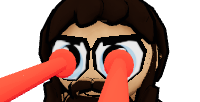
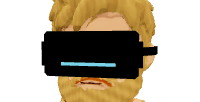
v153: v5 SHOP PREVIEWS (Timothy): v5 shop previews: every pre-baked card PNG (assets/pirates/thumbs, 30 player items re-baked + 13 new: crew hats/clothes incl. HQ HELMET, face paint) rendered on the v5 pirate via the gearThumbs.js renderer; Crew Shop cards show a crew member in the uniform (wear), o

diff --git a/js/gearThumbs.js b/js/gearThumbs.js
@@ -35,7 +35,7 @@ const FRAME = {   // measured from the skinned item bounds in the idle pose (big
 function frameOf(slot, o, id) { const F = FRAME[slot + ':' + id] || FRAME[slot] || FRAME.outfit, side = slot === 'hook' ? o.hookSide : slot === 'leg' ? o.legSide : 'R';
   return side === 'L' ? { c: [-F.c[0], F.c[1], F.c[2]], d: [-F.d[0], F.d[1], F.d[2]], r: F.r } : F; }
 const lookOf = (slot, o) => slot === 'map' ? '' : [slot === 'outfit' ? (o.skin || 'classic') : '', slot === 'hat' ? (o.hatColor | 0) : '', slot === 'hook' ? (o.hookSide === 'L' ? 'L' : 'R') : '',
-  slot === 'leg' ? (o.legSide === 'L' ? 'L' : 'R') : '', o.skinColor | 0, o.hairColor | 0, o.body | 0, o.eyeColor | 0].join('|');
+  slot === 'leg' ? (o.legSide === 'L' ? 'L' : 'R') : '', o.skinColor | 0, o.hairColor | 0, o.body | 0, o.eyeColor | 0, o.wear ? JSON.stringify(o.wear) + (o.skin || '') : ''].join('|');   // [Timothy] wear = other items worn under it (the Crew Shop's uniform)
 const keyOf = (slot, id, o) => `${slot}:${id}|${lookOf(slot, o)}|${o.w || TW}x${o.h || TH}|${o.lod || ''}`;
 const TW = 200, TH = 102;   // the shop card swatch is 150 x 76 (css .ishop-sw), drawn at ~1.33x
 const cache = new Map();   // key -> dataURL
@@ -81,7 +81,7 @@ function mapScroll() {
 
 const dressKey = (slot, id, o) => `${slot}:${id}|${lookOf(slot, o)}`;
 async function dressFor(slot, id, o) {
-  await applyGear(fig, normalizeGear({ [slot]: id, hatColor: o.hatColor | 0, hookSide: o.hookSide, legSide: o.legSide, skinColor: o.skinColor | 0, hairColor: o.hairColor | 0, body: o.body | 0, eyeColor: o.eyeColor | 0 }), slot === 'outfit' ? { skin: o.skin || 'classic' } : null);
+  await applyGear(fig, normalizeGear({ ...(o.wear || {}), [slot]: id, hatColor: o.hatColor | 0, hookSide: o.hookSide, legSide: o.legSide, skinColor: o.skinColor | 0, hairColor: o.hairColor | 0, body: o.body | 0, eyeColor: o.eyeColor | 0 }), slot === 'outfit' || o.wear?.outfit ? { skin: o.skin || 'classic' } : null);
   fig.userData.thumbKey = dressKey(slot, id, o);
 }
 async function renderOne(slot, id, o) {
@@ -112,15 +112,16 @@ function pump() {
   requestAnimationFrame(step);
 }
 export function gearThumb(slot, id, opts = {}) {
-  const k = keyOf(slot, id, opts); if (cache.has(k)) return cache.get(k);
-  const pr = new Promise((res) => { queue.push({ slot, id, o: opts, res }); pump(); }).then((u) => { if (!u) cache.delete(k); return u; });
+  const k = keyOf(slot, id, opts);
+  if (cache.has(k)) { if (opts.priority) { const i = queue.findIndex((j) => j.k === k); if (i > 0) queue.unshift(...queue.splice(i, 1)); } return cache.get(k); }   // [Timothy] the detail pane jumps the card queue
+  const pr = new Promise((res) => { const job = { k, slot, id, o: opts, res }; if (opts.priority) queue.unshift(job); else queue.push(job); pump(); }).then((u) => { if (!u) cache.delete(k); return u; });
   cache.set(k, pr); return pr;
 }
 export const gearThumbCached = (slot, id, opts = {}) => { const v = cache.get(keyOf(slot, id, opts)); return v && typeof v.then !== 'function' ? v : null; };
 export function gearThumbEl(slot, id, opts = {}) {
   const img = new Image(); img.className = 'gear-thumb'; img.alt = ''; img.decoding = 'async'; img.draggable = false;
   const rid = raulItemOf(slot, id, opts), icon = rid && new URL(`../assets/pirates/items/icons/${rid}.png`, import.meta.url).href;   // Raul's 256 px icon (the chosen side)
-  img.src = PNG(slot, id); img.onerror = () => { if (icon && img.src !== icon) { img.src = icon; return; } img.onerror = null; img.style.visibility = 'hidden'; };
+  img.src = opts.png ? new URL(`../assets/pirates/thumbs/${opts.png}.png`, import.meta.url).href : PNG(slot, id); img.onerror = () => { if (icon && img.src !== icon) { img.src = icon; return; } img.onerror = null; img.style.visibility = 'hidden'; };
   gearThumb(slot, id, opts).then((u) => { if (u) { img.onerror = null; img.style.visibility = ''; img.src = u; img.classList.add('real'); } });
   return img;
 }
@@ -131,7 +132,12 @@ export function gearLive(el, slot, id, opts = {}) {
   cv.width = w; cv.height = h; cv.className = cv.className || 'gear-live'; const ctx = cv.getContext('2d');
   let on = true, last = 0, a = 0, ready = false, redress = false; const me = { stop }, dk = dressKey(slot, id, opts);
   LIVE.add(me);
-  (async () => { await gearThumb(slot, id, opts); ready = true; })();   // dresses + caches the still first
+  // [Timothy] the pane is never empty: the pre-baked PNG at once, then this item's real still (rendered FIRST, ahead of the cards),
+  // then the slow turn once the card queue has drained (the shared figure is re-dressed for the cards until then)
+  let turned = false; const still = new Image(); still.decoding = 'async';
+  still.onload = () => { if (on && !turned) { ctx.clearRect(0, 0, w, h); ctx.drawImage(still, 0, 0, w, h); } };
+  if (slot !== 'map') still.src = opts.png ? new URL(`../assets/pirates/thumbs/${opts.png}.png`, import.meta.url).href : PNG(slot, id);
+  (async () => { const u = await gearThumb(slot, id, { ...opts, priority: true }); if (u && on && !turned) still.src = u; ready = true; })();   // dresses + caches the still first
   function frame(t) {
     if (!on) return; if (!cv.isConnected && t > 2000 && last) return stop();
     requestAnimationFrame(frame); if (!ready || t - last < 1000 / (LOW ? 20 : 30) || !R || cv.offsetParent === null || document.hidden) return; last = t;
@@ -143,7 +149,7 @@ export function gearLive(el, slot, id, opts = {}) {
       cam.position.set(F.c[0], F.c[1], F.c[2]).addScaledVector(d, dist); cam.lookAt(F.c[0], F.c[1], F.c[2]);
     }
     cam.aspect = w / h; cam.updateProjectionMatrix(); if (R.domElement.width !== w || R.domElement.height !== h) R.setSize(w, h, false);
-    R.render(scene, cam); ctx.clearRect(0, 0, w, h); ctx.drawImage(R.domElement, 0, 0); fig.rotation.y = 0; idleT = performance.now();
+    R.render(scene, cam); ctx.clearRect(0, 0, w, h); ctx.drawImage(R.domElement, 0, 0); fig.rotation.y = 0; idleT = performance.now(); turned = true;
   }
   requestAnimationFrame(frame);
   function stop() { on = false; LIVE.delete(me); }

diff --git a/js/pirateItems.js b/js/pirateItems.js
@@ -442,7 +442,7 @@ async function buildV5(p, def, opts, low, body, skel, names) {
   if (def.keyed) keyColors(geo, opts.colors, low); else if (opts.colors && !def.base) retint(geo, opts.colors);
   if (def.paint && p.lod === 'lo') paintLo(geo);
   const bt = def.backTint || 'shirt', hex = def.v5cloth ? opts.colors?.[bt] ?? def.tint?.[bt] : null;   // [Raul coats v5] coats: the inside in the coat colour   // [Raul clothes v5] single-layer cloth: both sides drawn, the inside in the cloth colour (shaded)
-  const m = new THREE.SkinnedMesh(geo, def.v5cloth && !def.base ? clothMat(itemMaterial(mat || {}, low, true), hex, low, def.cream) : def.keyed && def.cream ? clothMat(itemMaterial(mat || {}, low, true), opts.colors?.[1] || '#c8302c', low, def.cream) : itemMaterial(mat || {}, low, def.slot !== 'outfit' || !!def.v5cloth)); m.name = 'item_' + def.id; m.frustumCulled = false;
+  const m = new THREE.SkinnedMesh(geo, def.v5cloth && !def.base ? clothMat(itemMaterial(mat || {}, low, true), hex, low, def.cream) : def.keyed && def.cream ? clothMat(itemMaterial(mat || {}, low, true), opts.colors?.[1] || '#c8302c', low, def.cream) : itemMaterial(mat || {}, low, (def.slot !== 'outfit' || !!def.v5cloth) && !/^(hook|peg)_/.test(def.id))); m.name = 'item_' + def.id; m.frustumCulled = false;   // [Timothy] hooks + pegs single-sided: their black ink outline shell drew over the whole item when double-sided (black hook / peg)
   if (def.paint) { m.material = m.material.clone(); Object.assign(m.material, { polygonOffset: true, polygonOffsetFactor: -1, polygonOffsetUnits: -4 }); }   // [v145] the paint wins over the skin under it (phone bodies poked through the 4 mm shell)
   body.parent.add(m); m.bind(skel, body.bindMatrix);
   if (dy) { const P = geo.attributes.position; for (let i = 0; i < P.count; i++) P.setY(i, P.getY(i) + dy); P.needsUpdate = true; geo.computeBoundingSphere(); }

diff --git a/js/islandShop.js b/js/islandShop.js
@@ -98,7 +98,8 @@ function svgThumb(it) { // the painted fallback (only shown until the real rende
 // The pre-baked PNG shows while it renders; the painted SVG only if both fail. The detail pane turns it slowly (live preview).
 const thumbOpts = () => { const g = getLocalGear(); return { skin: state?.equipped?.skin || 'classic', hatColor: (state?.equipped?.gear?.hatColor ?? g.hatColor) | 0, hookSide: g.hookSide, legSide: g.legSide, skinColor: g.skinColor | 0, hairColor: g.hairColor | 0, body: g.body | 0, eyeColor: g.eyeColor | 0 }; };
 // [Timothy] CREW SHOP items draw with the player item of the same id (it.base) on a CREW MEMBER (CREW_LOOK), hat in its own colour
-const optsFor = (it) => it.crew ? { ...thumbOpts(), ...CREW_LOOK, hatColor: 0, eyeColor: 0 } : thumbOpts();
+// a crew HAT is shown over the uniform tank, crew CLOTHES under the uniform bandana (a crew member in the default uniform)
+const optsFor = (it) => it.crew ? { ...thumbOpts(), ...CREW_LOOK, hatColor: 0, eyeColor: 0, wear: it.slot === 'crewhat' ? { outfit: CREW_DEFAULT.crewoutfit } : { hat: CREW_DEFAULT.crewhat }, png: `${it.slot}_${it.id}` } : thumbOpts();
 function gearThumb(it, live = false) {
   const base = it.base ? { ...it, slot: it.base } : it, sl = base.slot;
   const d = svgThumb(base); d.classList.add('real3d'); if (it.crew) d.classList.add('crew'); const svg = d.firstElementChild;

diff --git a/sw.js b/sw.js
@@ -1,6 +1,6 @@
 // PUMPFUN PIRATES service worker: caches the app shell + pinned three.js CDN modules for offline play.
 // Bump VERSION whenever you change any file so phones pick up the update.
-const VERSION = 'pfp-v152'; // [v152] harbor join / respawn spawns you moored at a free berth (B1-B10), all taken = at sea as before
+const VERSION = 'pfp-v153'; // [v153] v5 shop previews: every pre-baked card PNG re-rendered on the v5 pirate (+13 new crew / face paint cards), PET STORE pane never empty, hooks + peg legs single-sided (no black blobs)
 const SHELL = [
   "./",
   "./index.html",

diff --git a/tools/thumbs_v5.py b/tools/thumbs_v5.py
@@ -1,0 +1,40 @@
+# Re-bake the pre-baked shop card PNGs (assets/pirates/thumbs/<slot>_<id>.png, shown at once while the live render runs) on the v5
+# pirate (the same gearThumbs.js renderer the shop uses), and check every still: drawn, and nothing cut at the top (hats / crowns),
+# on desktop (hi) and phone (lo), player items + Crew Shop items (crew member in the uniform). python3 tools/thumbs_v5.py <port> [--bake]
+import asyncio, base64, sys, json
+from playwright.async_api import async_playwright
+ARGS=['--use-gl=angle','--use-angle=swiftshader','--enable-unsafe-swiftshader','--ignore-gpu-blocklist']
+B='http://127.0.0.1:'+sys.argv[1]; BAKE='--bake' in sys.argv; DST='/workspace/timothy-crewpets/assets/pirates/thumbs'
+UA='Mozilla/5.0 (iPhone; CPU iPhone OS 17_0 like Mac OS X) AppleWebKit/605.1.15 (KHTML, like Gecko) Version/17.0 Mobile/15E148 Safari/604.1'
+JS="""async(crewOnly)=>{ const T=await import('/js/gearThumbs.js'), C=await import('/js/shopCatalog.js'), L=await import('/js/crewLoadout.js');
+  const img=(u)=>new Promise(r=>{ const i=new Image(); i.onload=()=>r(i); i.onerror=()=>r(null); i.src=u; });
+  const chk=async(u)=>{ const i=await img(u); if(!i) return { ok:false }; const c=document.createElement('canvas'); c.width=i.width; c.height=i.height; const g=c.getContext('2d'); g.drawImage(i,0,0);
+    const d=g.getImageData(0,0,c.width,c.height).data; let n=0, top=0; for(let y=0;y<c.height;y++) for(let x=0;x<c.width;x++){ const a=d[(y*c.width+x)*4+3]; if(a>20){ n++; if(y<2) top++; } } return { ok:true, px:n, top }; };
+  const out={}, res=[];
+  for (const it of C.GEAR_ITEMS) { const u=await T.gearThumb(it.slot,it.id,{}); out[it.slot+'_'+it.id]=u; res.push({ k:it.slot+':'+it.id, ...(await chk(u)) }); }
+  for (const it of C.CREW_ITEMS) { const o={ ...L.CREW_LOOK, wear: it.slot==='crewhat' ? { outfit:'tank' } : { hat:'bandana' } }; const u=await T.gearThumb(it.base,it.id,o); out['crew_'+it.slot+'_'+it.id]=u; res.push({ k:it.slot+':'+it.id, ...(await chk(u)) }); }
+  return { out, res }; }"""
+async def run(b,name,phone):
+    kw=dict(viewport={'width':1280,'height':800} if not phone else {'width':390,'height':844},service_workers='block')
+    if phone: kw.update(is_mobile=True,has_touch=True,user_agent=UA)
+    ctx=await b.new_context(**kw); await ctx.route('**/*supabase.co/**',lambda r:r.abort()); pg=await ctx.new_page(); errs=[]
+    pg.on('pageerror',lambda e: errs.append(str(e)))
+    await pg.goto(B+'/index.html?quality='+('low' if phone else 'high'),wait_until='domcontentloaded',timeout=180000)
+    await pg.wait_for_function('window.PFP && PFP.renderer',timeout=300000)
+    r=await pg.evaluate(JS, False); await ctx.close(); return r, errs
+async def main():
+    R=[]; ok=lambda n,c,i='': (R.append((n,bool(c),i)), print(('PASS ' if c else 'FAIL ')+n, str(i)[:300], flush=True))
+    async with async_playwright() as p:
+        b=await p.chromium.launch(executable_path='/usr/bin/google-chrome',headless=True,args=ARGS)
+        for name,phone in [('desktop',False),('phone',True)]:
+            r,errs=await run(b,name,phone)
+            bad=[x for x in r['res'] if not x.get('ok') or x['px']<800]; cut=[x for x in r['res'] if x.get('top',0)>3 and (x['k'].startswith('hat:') or x['k'].startswith('crewhat:'))]
+            ok(f'{name} every thumbnail drawn ({len(r["res"])} player + crew items)', not bad, bad); ok(f'{name} no hat / crown cut at the top', not cut, cut); ok(f'{name} no page errors', not errs, errs[:3])
+            if BAKE and not phone:
+                for k,u in r['out'].items():
+                    if u and not k.startswith('crew_'): open(f'{DST}/{k}.png','wb').write(base64.b64decode(u.split(',',1)[1]))
+                    if u and k.startswith('crew_'): open(f'{DST}/{k[5:]}.png','wb').write(base64.b64decode(u.split(',',1)[1]))
+        await b.close()
+    print(f"{sum(1 for r in R if r[1])}/{len(R)} passed")
+    open('/workspace/timothy-crewpets/screens/results_thumbs.txt','w').write('\n'.join(('PASS ' if c else 'FAIL ')+n+'  '+str(i)[:300] for n,c,i in R)+f"\n{sum(1 for r in R if r[1])}/{len(R)} passed\n")
+asyncio.run(main())

diff --git a/tools/crew_pets.py b/tools/crew_pets.py
@@ -63,7 +63,7 @@ async def run(b,name,vp,phone,errs):
     await pg.evaluate("window.openShop({vendor:'crew', tab:'skins'})"); await pg.wait_for_timeout(4000)
     v=await pg.evaluate("""(()=>{ const r=document.getElementById('island-shop'); return { title: r.querySelector('.ishop-title b').textContent, cards:[...r.querySelectorAll('.ishop-card')].map(c=>c.dataset.id+'|'+c.querySelector('.ishop-badge')?.textContent),
       chips:[...r.querySelectorAll('.ishop-chips button')].map(b=>b.textContent), chipsHidden: r.querySelector('.ishop-chips').hidden, live: !!r.querySelector('.ishop-detail canvas.gear-live') }; })()""")
-    ok(f'{name} CREW SHOP opens (counter vendor crew; tab falls back to gear)', v['title']=='CREW SHOP' and len(v['cards'])==5 and all(c.startswith('crewhat:') for c in v['cards']), v)
+    ok(f'{name} CREW SHOP opens with the 6 crew hats incl. HQ HELMET (counter vendor crew; tab falls back to gear)', v['title']=='CREW SHOP' and len(v['cards'])==6 and all(c.startswith('crewhat:') for c in v['cards']), v)
     ok(f'{name} CREW SHOP chips: CREW HATS / CREW CLOTHES', v['chips']==['CREW HATS','CREW CLOTHES'] and not v['chipsHidden'], v['chips'])
     ok(f'{name} CREW SHOP prices = player prices, uniform free + equipped', 'crewhat:bandana|EQUIPPED ✓' in v['cards'] and 'crewhat:tricorn|400g' in ''.join(v['cards']).replace(',','') or any('crewhat:tricorn' in c and '400' in c for c in v['cards']), v['cards'])
     ok(f'{name} CREW SHOP: owning the player bicorne does NOT own the crew bicorne', any(c.startswith('crewhat:bicorne|') and 'OWNED' not in c and 'EQUIPPED' not in c for c in v['cards']), v['cards'])
@@ -95,7 +95,14 @@ async def run(b,name,vp,phone,errs):
     ok(f'{name} PET STORE opens with the 8 parrot cards (7 parrots + NO PARROT), chips hidden', v['title']=='PET STORE' and len(v['cards'])==8 and v['chipsHidden'], v)
     ok(f'{name} PET STORE goals kept: BLACK goal met (1240 kills >= 1000, then gold), GOLD + DIAMOND locked', any(c.startswith('parrot:parrot_black|buy') or c.startswith('parrot:parrot_black|poor') for c in v['cards']) and await pg.evaluate("document.querySelector('#island-shop .ishop-card[data-id=\"parrot:parrot_black\"]').classList.contains('goal-met')") and any(c.startswith('parrot:parrot_gold|locked') for c in v['cards']) and any(c.startswith('parrot:parrot_diamond|locked') for c in v['cards']), v['cards'])
     ok(f'{name} PET STORE rarity tags', sum(1 for c in v['cards'] if c.split('|')[2])==7, v['cards'])
-    await pg.wait_for_timeout(2500); await shot('petstore')
+    PX="""(()=>{ const cv=document.querySelector('#island-shop .ishop-detail canvas.gear-live'); if(!cv) return -1; const d=cv.getContext('2d').getImageData(0,0,cv.width,cv.height).data; let n=0; for(let i=3;i<d.length;i+=4) if(d[i]>0) n++; return n; })()"""
+    await pg.wait_for_timeout(1500); n0=await pg.evaluate(PX)
+    ok(f'{name} PET STORE detail pane shows the selected parrot within 1.5 s of opening (equipped BLUE MACAW)', n0>2000, n0)
+    await pg.wait_for_timeout(1000); await shot('petstore')
+    for pid,tag in [('parrot:parrot_gold','locked'),('parrot:none','none'),('parrot:parrot_blue','owned')]:
+        await pg.evaluate(f"document.querySelector('#island-shop .ishop-card[data-id=\"{pid}\"]').click()"); await pg.wait_for_timeout(1500); n=await pg.evaluate(PX)
+        ok(f'{name} PET STORE detail pane drawn for {tag} ({pid})', n>2000, n)
+        if tag=='none': await shot('petstore_none')
     await pg.evaluate("document.querySelector('#island-shop .ishop-card[data-id=\"parrot:parrot_gold\"]').click()"); await pg.wait_for_timeout(2500); await shot('petstore_locked_gold')
     await pg.evaluate("document.querySelector('#island-shop .ishop-card[data-id=\"parrot:parrot_red\"]').click()"); await pg.wait_for_timeout(500)
     await pg.evaluate("document.querySelector('#island-shop .ishop-detail [data-a=buy]').click()"); await pg.wait_for_timeout(400)

diff --git a/tools/v5_preview_shots.py b/tools/v5_preview_shots.py
@@ -1,0 +1,27 @@
+# every shop grid + the PET STORE detail pane, desktop + phone, after the v5 preview re-bake -> screens/v5previews/
+# python3 tools/v5_preview_shots.py <port>
+import asyncio, sys, os
+src=open('/workspace/timothy-crewpets/tools/crew_pets.py').read().replace('asyncio.run(main())','')
+sys.argv=['x',sys.argv[1]]; g={'__name__':'cp'}; exec(src,g)
+OUT=g['OUT']+'/v5previews'
+SHOPS=[('clothes_hats',"window.openShop({vendor:'clothes',tab:'gear',slot:'hat'})"),('clothes_outfits',"window.openShop({vendor:'clothes',tab:'gear',slot:'outfit'})"),
+       ('clothes_hooks',"window.openShop({vendor:'clothes',tab:'gear',slot:'hook'})"),('pets',"window.openShop({vendor:'pets'})"),('crew',"window.openShop({vendor:'crew'})"),
+       ('ship_shop',"window.openShop({vendor:'ships',tab:'skins'})"),('upgrade_shop',"window.PFP_OPEN_UPGRADES && window.PFP_OPEN_UPGRADES()")]
+MOCK=open('/workspace/timothy-crewpets/tools/shop_before_after.py').read().split('MOCK="""')[1].split('"""')[0]
+async def main():
+    os.makedirs(OUT,exist_ok=True); errs=[]
+    async with g['async_playwright']() as p:
+        b=await p.chromium.launch(executable_path='/usr/bin/google-chrome',headless=True,args=g['ARGS'])
+        for n,vp,ph in [('desktop',(1280,800),False),('phone',(390,844),True)]:
+            ctx,pg=await g['page'](b,g['B'],n,vp,ph,errs); await pg.evaluate(MOCK)
+            for s,js in SHOPS:
+                await pg.evaluate("window.closeShop && closeShop(); document.querySelector('#shop-close, .shop-x, #upg-close')?.click?.()"); await pg.wait_for_timeout(400)
+                await pg.evaluate(js); await pg.wait_for_timeout(6000); await pg.screenshot(path=f'{OUT}/{n}_{s}.png')
+                if s=='pets':
+                    for pid in ['parrot_gold','parrot_red']:
+                        await pg.evaluate(f"document.querySelector('#island-shop .ishop-card[data-id=\"parrot:{pid}\"]').click()"); await pg.wait_for_timeout(2500)
+                        await pg.evaluate("document.querySelector('#island-shop .ishop-detail')?.scrollIntoView({block:'center'})"); await pg.screenshot(path=f'{OUT}/{n}_pets_detail_{pid}.png')
+            await ctx.close()
+        await b.close()
+    print('errors', [e for e in errs if 'supabase' not in e.lower()][:6])
+asyncio.run(main())

diff --git a/tools/shop_before_after.py b/tools/shop_before_after.py
@@ -1,0 +1,24 @@
+# every shop, desktop + phone, BEFORE (b5aa30f server) / AFTER (this branch), 3 s after opening (what a player sees first).
+# python3 tools/shop_before_after.py <after_port> <before_port>
+import asyncio, sys
+src=open('/workspace/timothy-crewpets/tools/crew_pets.py').read().replace('asyncio.run(main())','')
+sys.argv=['x',sys.argv[1],sys.argv[2]]; g={'__name__':'cp'}; exec(src,g)
+OUT=g['OUT']+'/shops'
+SHOPS=[('clothes',"window.openShop({vendor:'clothes',tab:'gear',slot:'hat'})"),('pets',"window.openShop({vendor:'pets'})"),('crew',"window.openShop({vendor:'crew'})"),
+       ('ship_skins',"window.openShop({vendor:'ships',tab:'skins'})"),('upgrades',"window.PFP_OPEN_UPGRADES && window.PFP_OPEN_UPGRADES()")]
+MOCK="""PFP_ISLAND_SHOP.setShopProvider(PFP_ISLAND_SHOP.mockProvider({ gold: 30000, stats:{ kills: 1240, deaths: 300, botKills: 120, harborKills: 412, bossKills: 37 },
+  owned:{ skins:['classic','blood'], gear:['hat:tricorn','parrot:parrot_blue','outfit:coat'] }, equipped:{ skin:'blood', gear:{ hat:'tricorn', outfit:'coat', eyes:'plain', parrot:'parrot_blue', hook:'none', leg:'none', crewhat:'bandana', crewoutfit:'tank' } } }))"""
+async def main():
+    import os; os.makedirs(OUT,exist_ok=True); errs=[]
+    async with g['async_playwright']() as p:
+        b=await p.chromium.launch(executable_path='/usr/bin/google-chrome',headless=True,args=g['ARGS'])
+        for n,vp,ph in [('desktop',(1280,800),False),('phone',(390,844),True)]:
+            for tag,base in [('before',g['BEFORE']),('after',g['B'])]:
+                ctx,pg=await g['page'](b,base,f'{n}-{tag}',vp,ph,errs); await pg.evaluate(MOCK)
+                for s,js in SHOPS:
+                    await pg.evaluate("window.closeShop && closeShop(); document.querySelector('#shop-close, .shop-x, #upg-close')?.click?.()"); await pg.wait_for_timeout(400)
+                    await pg.evaluate(js); await pg.wait_for_timeout(3000); await pg.screenshot(path=f'{OUT}/{n}_{s}_{tag}.png')
+                await ctx.close()
+        await b.close()
+    print('errors', [e for e in errs if 'supabase' not in e.lower()][:6])
+asyncio.run(main())
